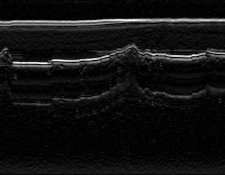
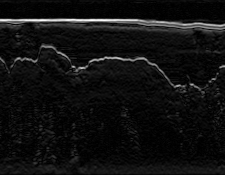
added median logic for human feedback boundary

diff --git a/part2/polar.py b/part2/polar.py
@@ -12,6 +12,7 @@ from scipy.ndimage import filters
 import sys
 import imageio
 from scipy.stats import norm
+import matplotlib.pyplot as plt
 import numpy as np
 
 # calculate "Edge strength map" of an image                                                                                                                                      
@@ -25,9 +26,9 @@ def get_distance_distr(row1, len):
     diff =  [] 
     for row in range(0,edge_strength.shape[0]):
         #diff.append(1/(2**(abs(row1 - row)+1)))
-        
-        diff.append(1/(abs(row1-row)+1))
-    diff = diff/sum(diff)
+        dist = abs(row1-row)
+        diff.append(1/(dist+1))
+    #diff = diff/sum(diff)
     return diff
 
 # draw a "line" on an image (actually just plot the given y-coordinates
@@ -169,15 +170,15 @@ def get_feedback_rows_ice_rock(edge_strength, row_coord, col_coord, air_ice):
     V_table[:,0] = emission_probs[:,0]
     V_table[:,col_coord] = emission_probs[:,col_coord]
     V_table[row_coord,col_coord] = -np.log(1)
-
+    median_airice = int(median(air_ice))
     for t in range(col_coord-1, 0,-1):
-        for row in range(edge_strength.shape[0]-1, air_ice[t]+9, -1):
+        for row in range(edge_strength.shape[0]-1, median_airice+10, -1):
             distance_distr = get_distance_distr(row, edge_strength.shape[0])
             transition = -log(distance_distr/sum(distance_distr))
             V_table[row,t] = min(V_table[:,t+1]+transition+emission_probs[row, t])
     
     for t in range(col_coord+1, edge_strength.shape[1]):
-        for row in range(air_ice[t]+10, edge_strength.shape[0]):
+        for row in range(median_airice+10, edge_strength.shape[0]):
             distance_distr = get_distance_distr(row, edge_strength.shape[0])
             transition = -log(distance_distr/sum(distance_distr))
             V_table[row,t] = min(V_table[:,t-1]+transition+emission_probs[row, t])
@@ -200,7 +201,8 @@ if __name__ == "__main__":
     # load in image 
     input_image = Image.open(input_filename).convert('RGB')
     image_array = array(input_image.convert('L'))
-
+    plt.imshow(input_image)
+    plt.show()
     # compute edge strength mask -- in case it's helpful. Feel free to use this.
     edge_strength = edge_strength(input_image)
     simple_bayes = get_bayes_rows(edge_strength)
